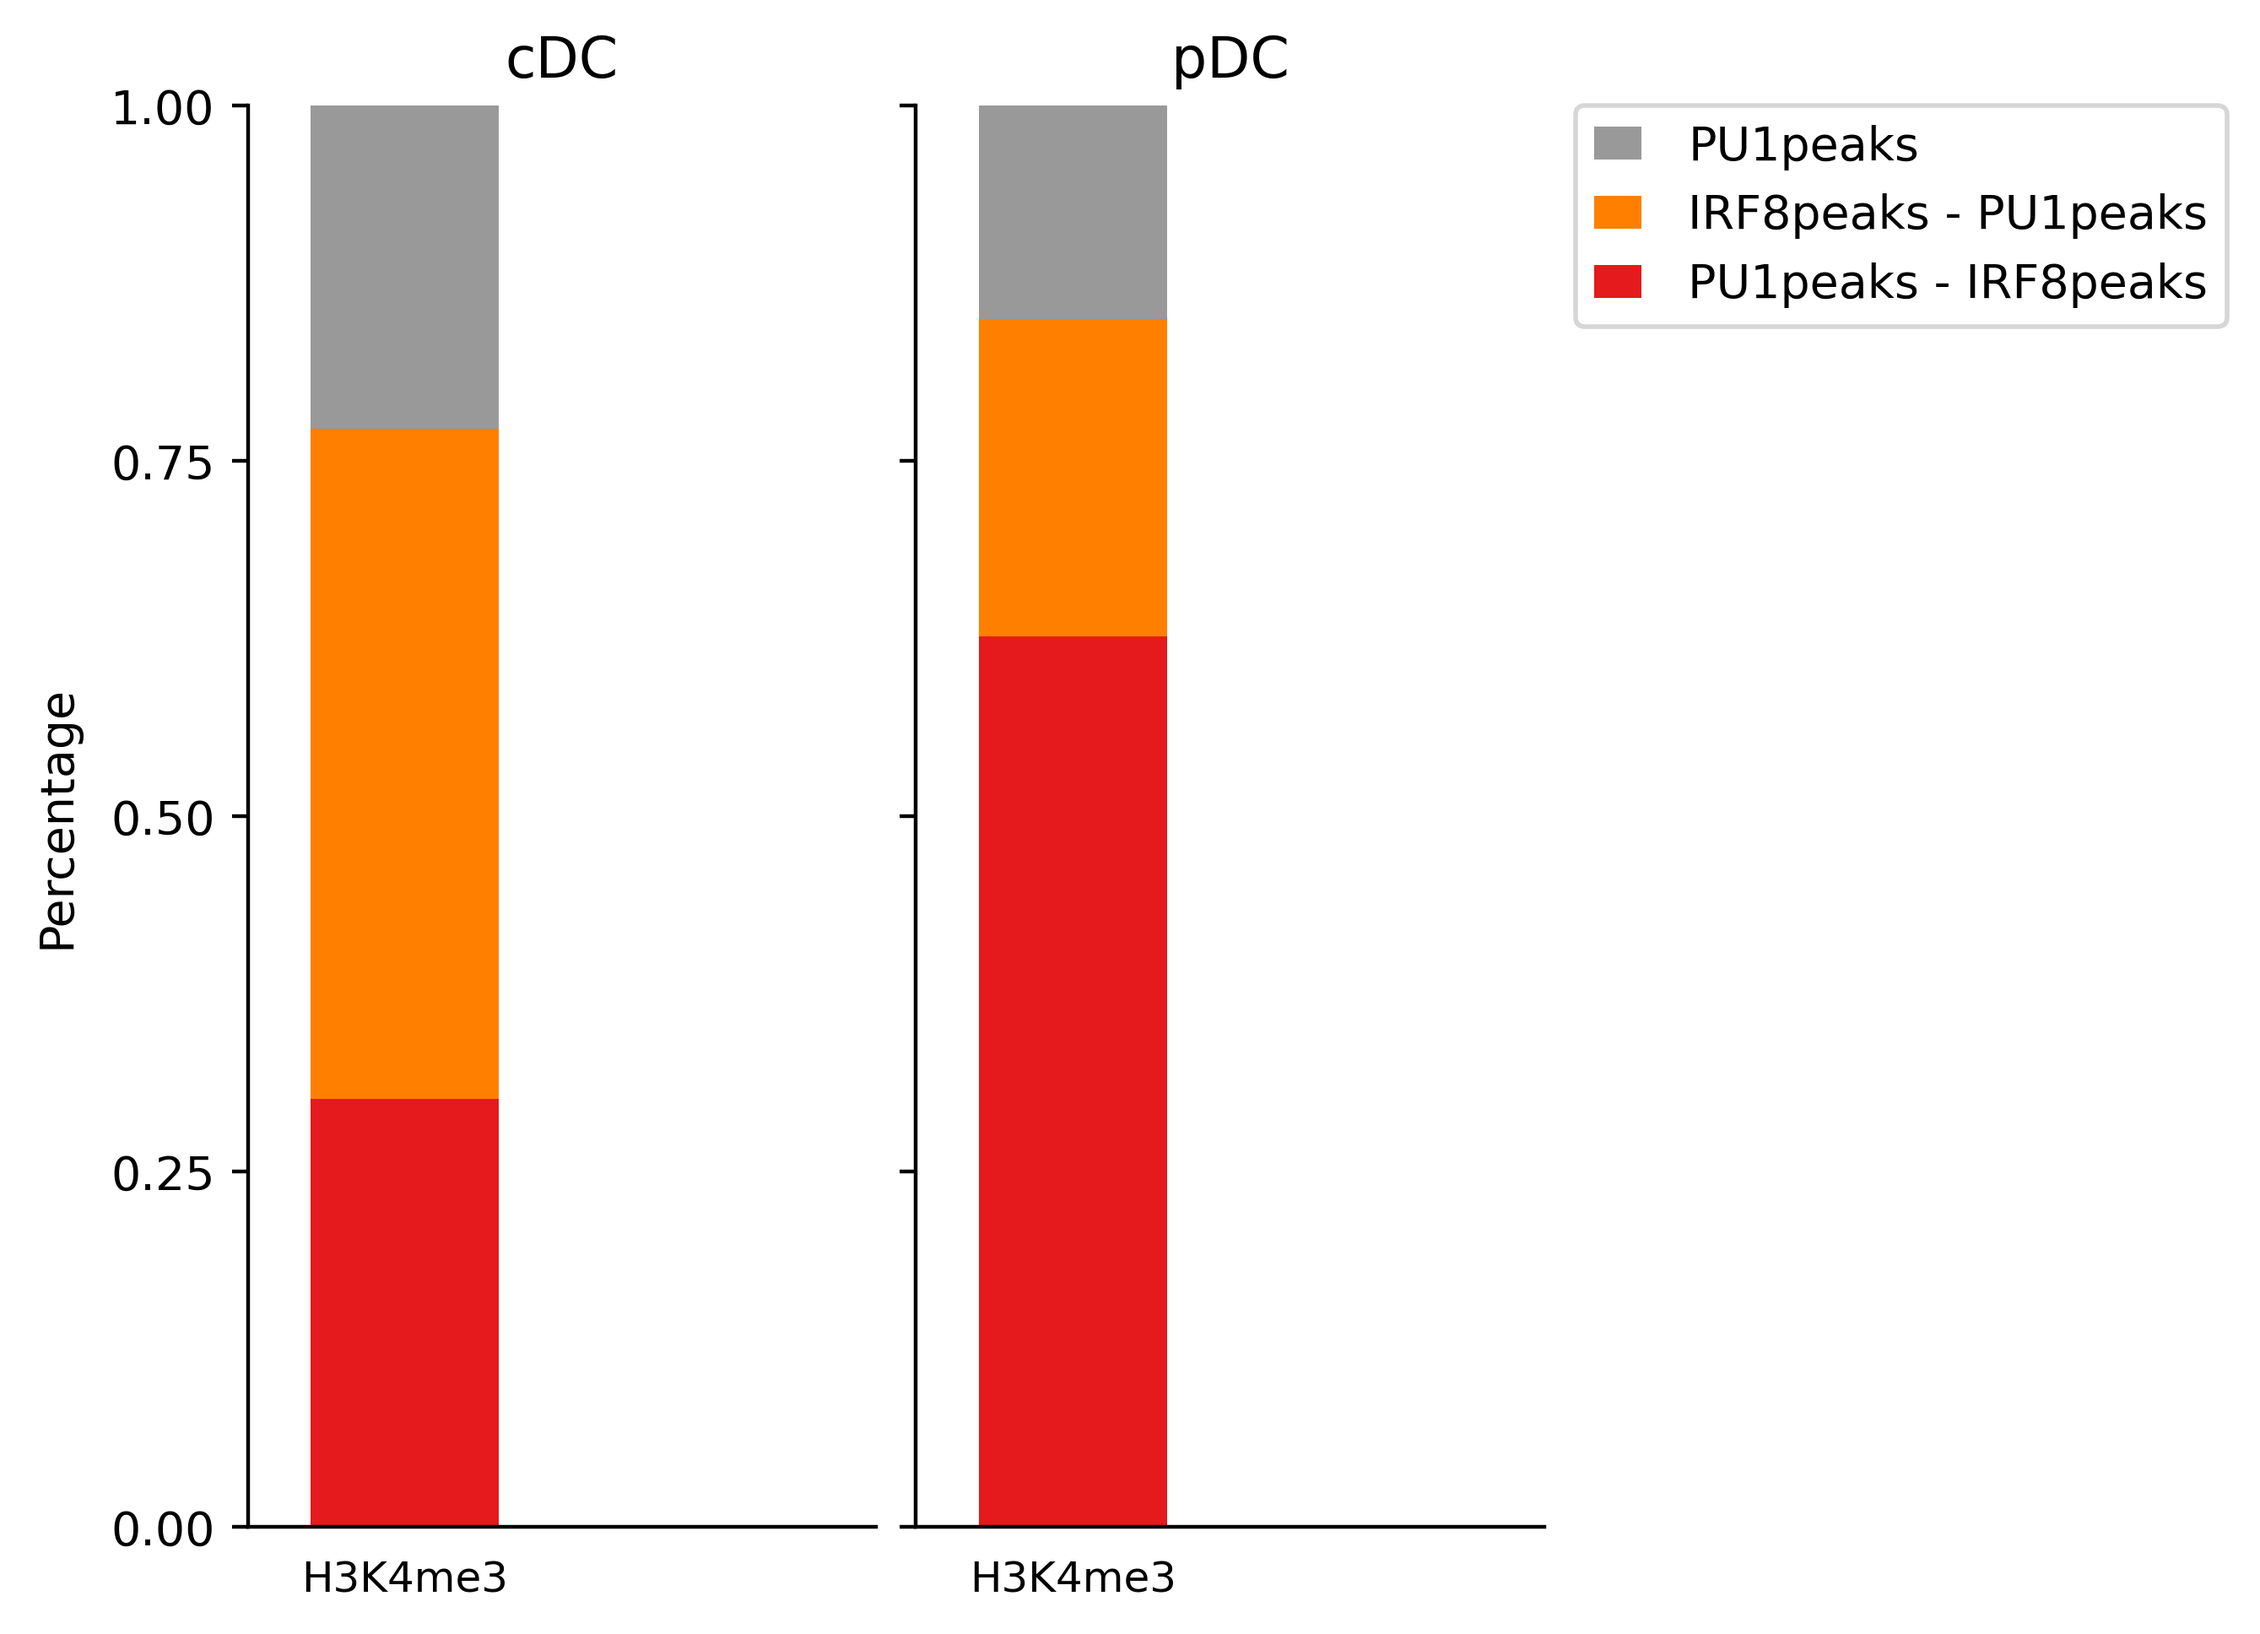
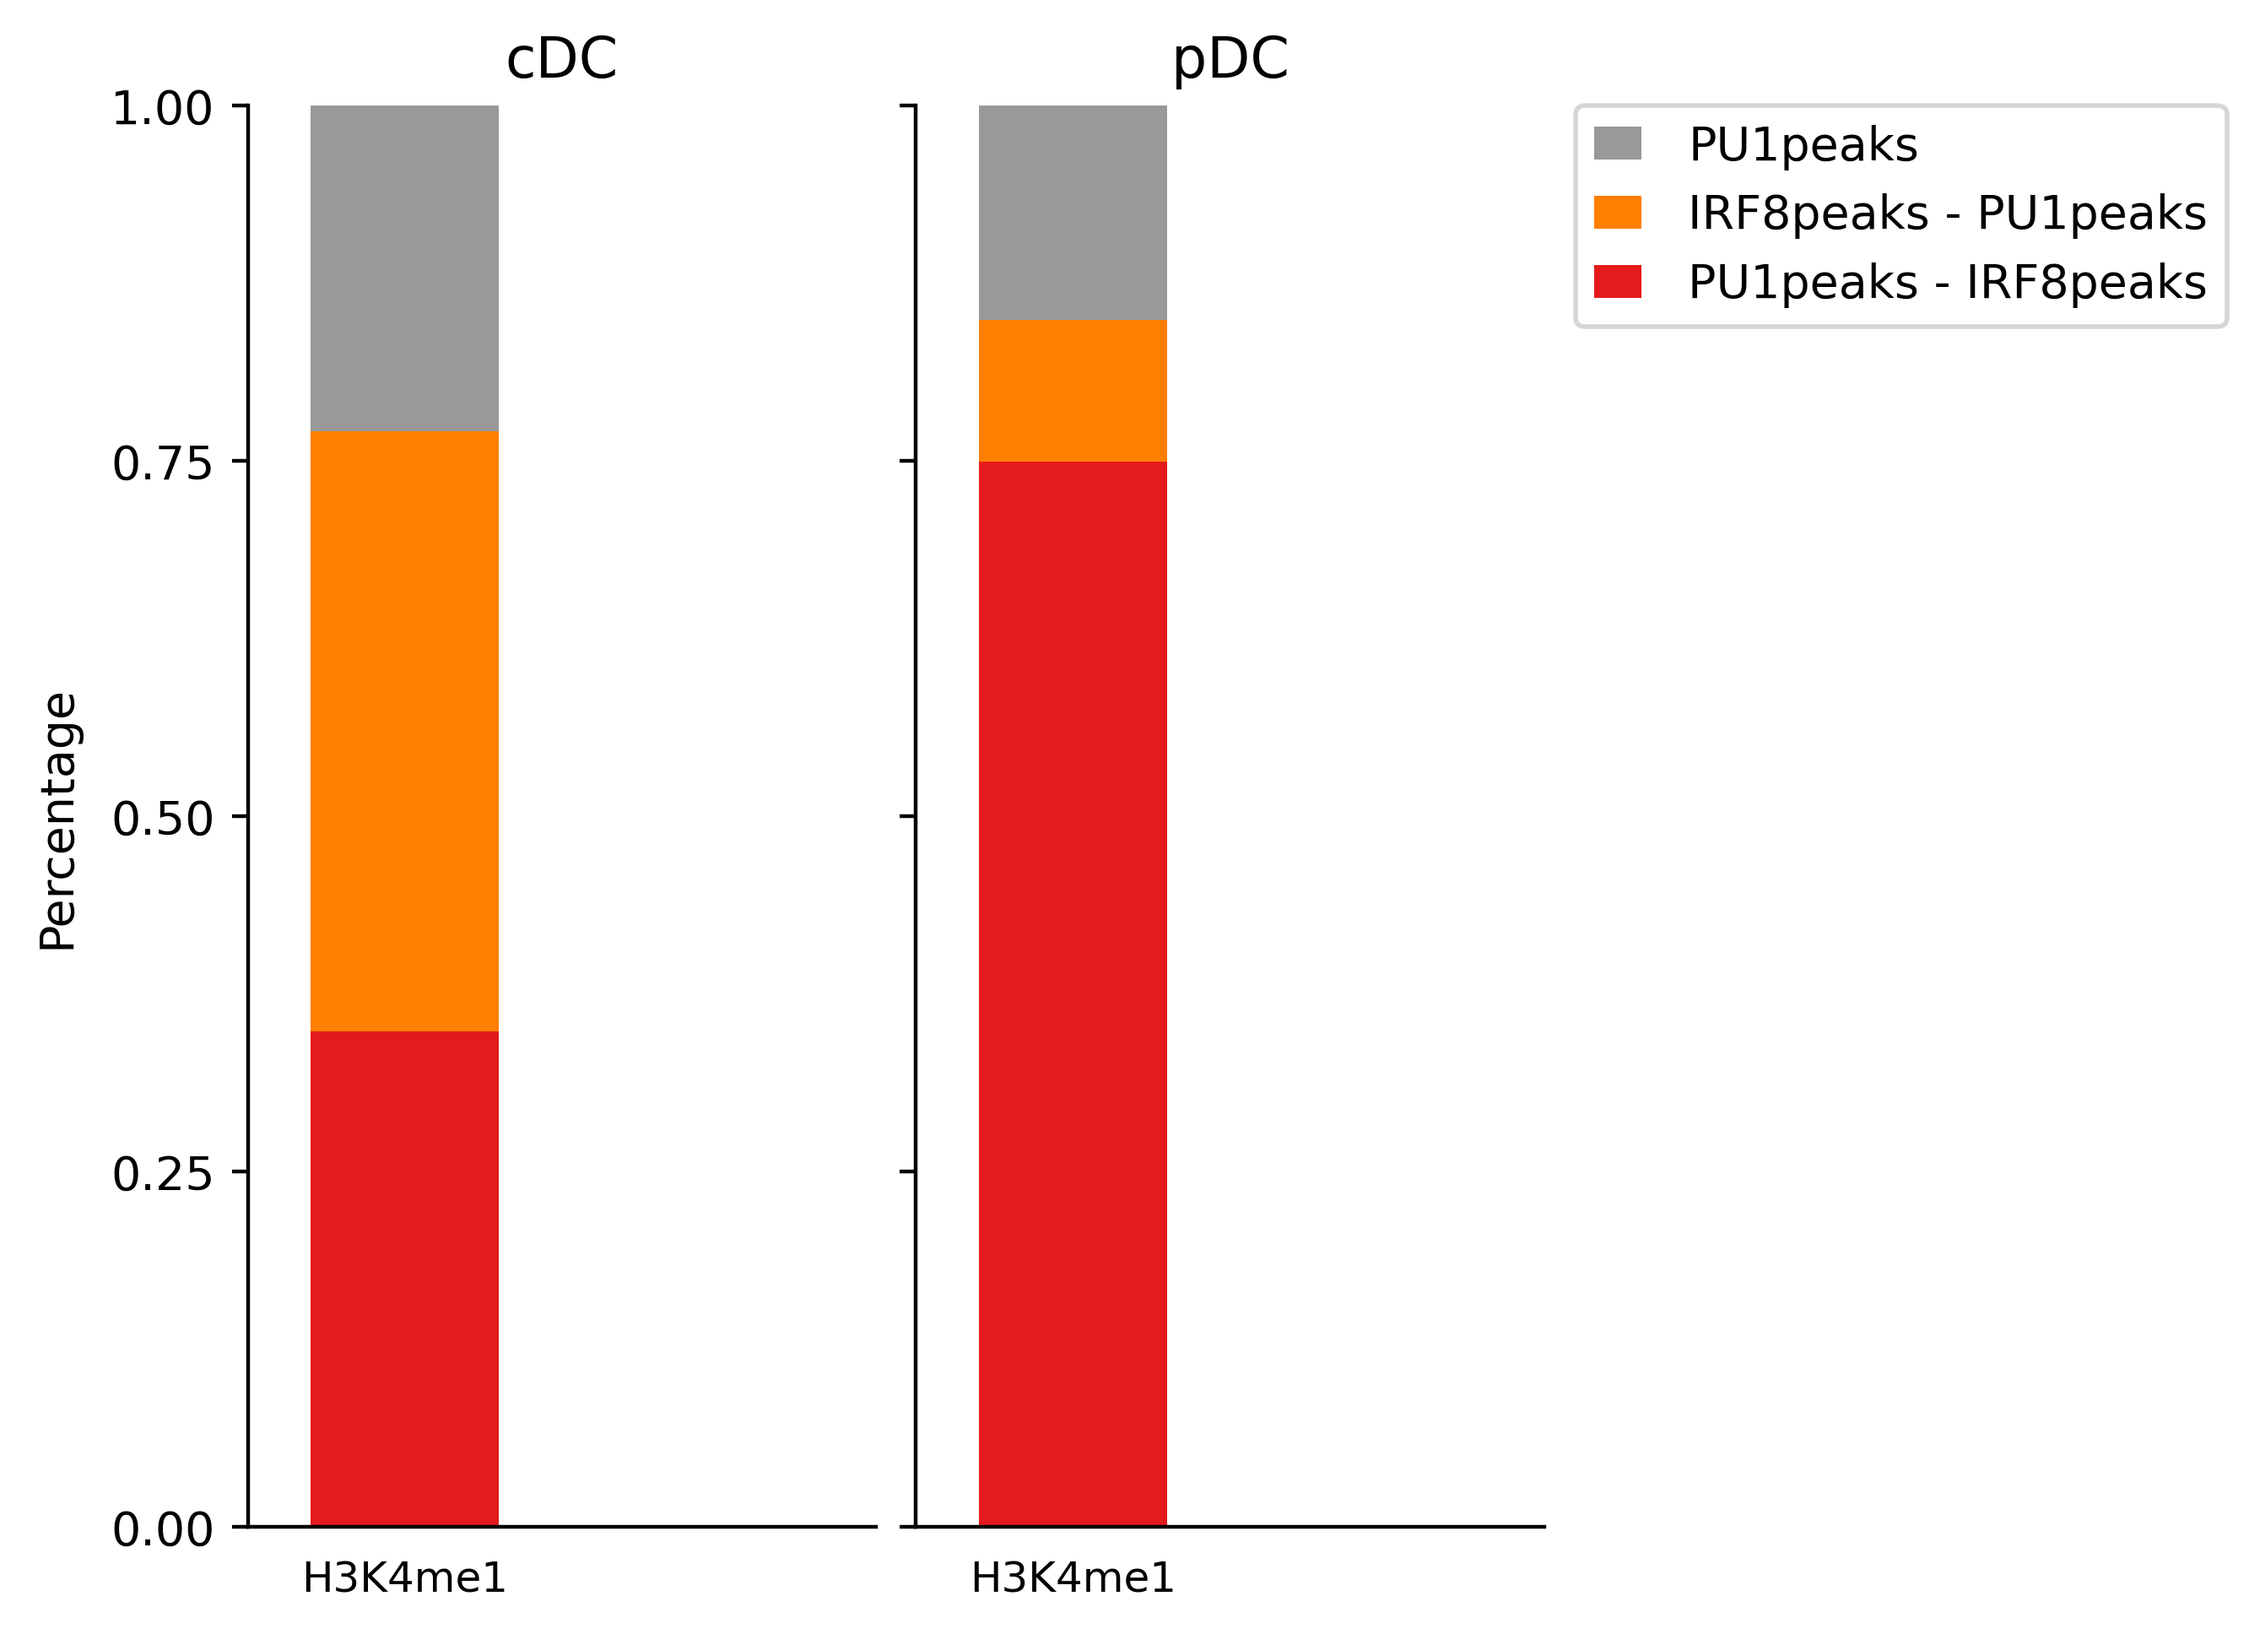
update rgt-viz tutorial

Changed region(s): [[0.4339, 0.2789, 0.5269, 0.4029], [0.124, 0.6198, 0.217, 0.6818]]

diff --git a/docs/rgt-viz/tutorial_regions_vs_regions.md b/docs/rgt-viz/tutorial_regions_vs_regions.md
@@ -218,7 +218,7 @@ rgt-viz jaccard -r Matrix_PU1.txt -q Matrix_IRF8.txt -o results -t PU1_IRF8_jacc
 This command will generate a directory “<em>results/PU1_IRF8_jaccard</em>” with figures and html pages.
 
 <p align="center">
-<img src="../_static/rgt-viz/jaccard_test.png" width=350 align="center">
+<img src="../_static/rgt-viz/jaccard_test.png" width=500 align="center">
 </p>
 
 We can also look at the statistic numbers and p-values as shown below:
@@ -319,21 +319,8 @@ We can also look at the statistic numbers and p-values as shown below:
 		</tr>
 </tbody></table></p>
 
-## Combinatorial test
-We next ask if co-binding of PU.1 and IRF8 relates to different histone modifications. For this, we use [combinatorial test](https://reg-gen.readthedocs.io/en/latest/rgt-viz/method.html#combinatorial-test). This is another variant of intersection test that checks all the combinations of the given query regions and calcuate their intersections to the reference. This test is useful in exploring the unknown association between region sets.
-
-
-```shell
-rgt-viz combinatorial -o results -q Matrix_H3K4me3_cDC_pDC.txt -r Matrix_PU1_IRF8_peaks.txt -t combinatorial -organism mm9 -g cell -c factor
-```
-
-<p align="center">
-<img src="../_static/rgt-viz/intersection_stackedbar.png" width=500 align="center">
-</p>
-
 ## Projection test
-
-Projection test evaluates the association between a set of region sets (peaks of Irf8, PU1 and Irf8/PU1) vs. a background regions (H3K4me3 peaks in cDC cells) by evaluating intersection counts with a random binomial model.
+We next evaluate the association between IRF8 and PU.1 binding sites and histone modification markers. For this, we can use [projection test](https://reg-gen.readthedocs.io/en/latest/rgt-viz/method.html#projection-test). It evaluates the association between a set of region sets (peaks of Irf8, PU1 and Irf8/PU1) vs. a background regions (H3K4me3 peaks in cDC cells) by evaluating intersection counts with a random binomial model.
 
 ```shell
 rgt-viz projection -r Matrix_H3K4me3.txt -q Matrix_cDC_pDC.txt -o results -t projection -c factor -organism mm9 -g cell
@@ -355,3 +342,14 @@ This command will generate a directory “<em>results/projection</em>” with fi
 
 These results indicates the majority of peaks associated with H3K4me3 in cDC are of PU.1 and Irf8 co-binding, while H34me3 pekas are associated with Irf8 peaks.
 
+## Combinatorial test
+We next ask if co-binding of PU.1 and IRF8 relates to different histone modifications. For this, we use [combinatorial test](https://reg-gen.readthedocs.io/en/latest/rgt-viz/method.html#combinatorial-test). This is another variant of intersection test that checks all the combinations of the given query regions and calcuate their intersections to the reference. This test is useful in exploring the unknown association between region sets.
+
+
+```shell
+rgt-viz combinatorial -o results -q Matrix_H3K4me1_cDC_pDC.txt -r Matrix_PU1_IRF8_peaks.txt -t combinatorial -organism mm9 -g cell -c factor
+```
+
+<p align="center">
+<img src="../_static/rgt-viz/intersection_stackedbar.png" width=500 align="center">
+</p>
